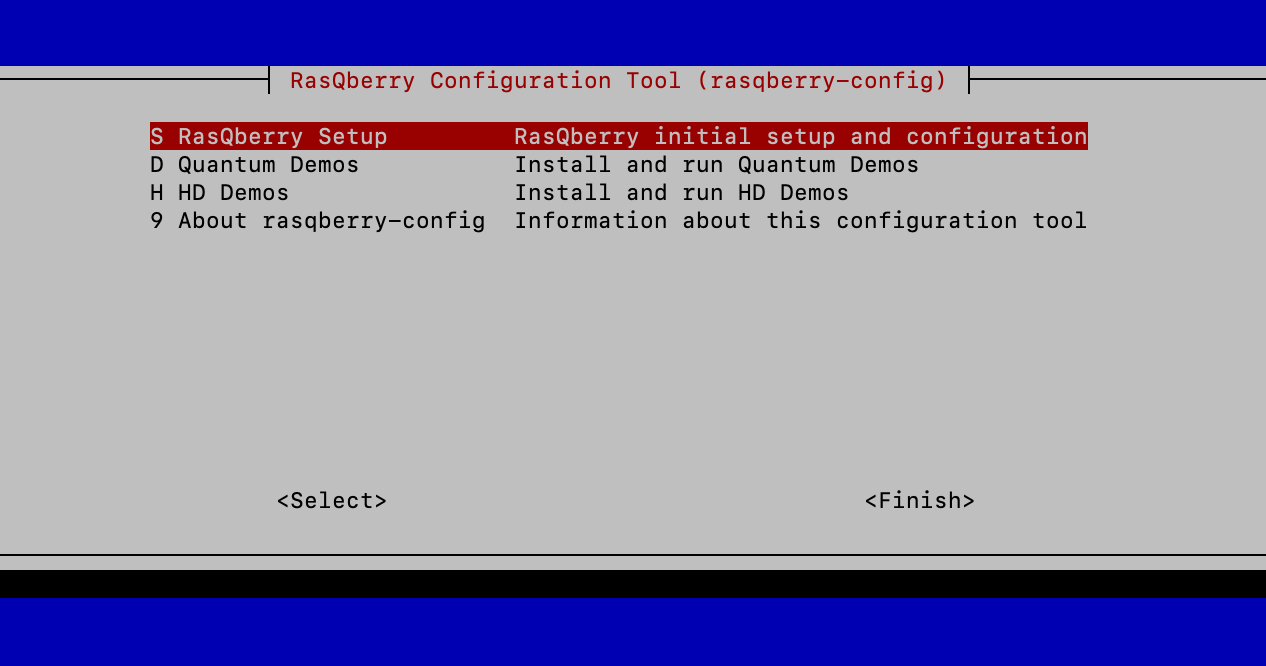
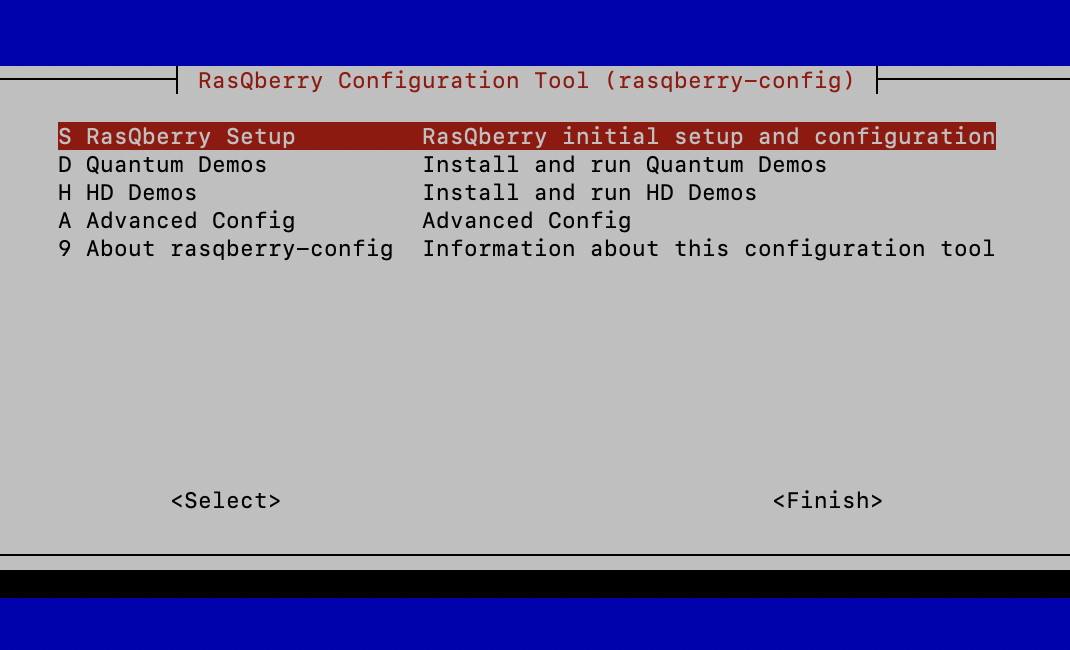
Updated documentation  (#95)
* Update Documentation

* Added how to access the Kivy Interface

diff --git a/documentation/RasQberry_Setup.md b/documentation/RasQberry_Setup.md
@@ -66,47 +66,46 @@ This will download and start the RasQberry Configuration Tool (rasqberry-config)
 To start the tool again you can use 
 ```pyhton 
 . ./RasQ-init.sh 
-````
+```
 in your terminal/ssh window.
 
 <br/>
 
 ## Step 4: RasQberry Setup
-You can assemble your Hardware either with an (touch) display or with an senseHAT. It is not possible to use the senseHAT and the touch display on the same Raspberry P, because the senseHAT isn't working with the installation process from the touch display.
+You can assemble your Hardware either with an (touch) display or with an senseHAT. It is not possible to use the senseHAT and the touch display on the same Raspberry Pi, because the senseHAT isn’t working with the installation process from the touch display.
+<br/>
+
 ### With touch display
-In the RasQberry Configuration Tool select `S – RasQberry Setup`. <br/> Follow these steps one by one.
-1.	Select `I0 – Initial Config`   
-Your Raspberry will process the basic configurations on your device
-1.	Select `S1 – Enable VNC` (required if you want to remotely access the screen)  
-With this step you will be able to use VNC
-After this step is executed, you will have to reboot your device.
-(See also: Install VNC Viewer)
-1.	Select `S2 – Enable 4’’ Display` (required if using a touchscreen)  
-With this step you will be able to use a touchscreen with your Raspberry.
-After this step is executed, you will have to reboot your device
-1.	Select `S3 – Software Update`   
-With this step your device is searching for software updates and will execute them.
-After this step is executed, you will have to reboot your device.
-1.	Select `Q1 – Install Qiskit`  
+Open the RasQberry Configuration Tool and follow the steps below.
+1. Select `S – RasQberry Setup`
+1. Select `G0 – System Update`
+1. Select `G1 - Initial Config`<br/>
+Your Raspberry will process the basic configurations on your device.
+1. Select `G2 – Install Qiskit`<br/>
 With this step you will install Qiskit. You can choose between a few versions of Qiskit to install. The latest version is recommended.
-1.	Select `S0 – Bloch Autostart`   
-With this step your Raspberry will start the Bloch Sphere Demo automatically whenever you start your device. 
-After your first time executing `S0` your Raspberry will reboot automatically. After the reboot you should execute `S0` again. This time there is no automatic reboot, but one is recommended.
-1.	Select `S7 – Enable LED Lights` (optional)   
-With this step you can enable LED Lights that you connected to your Raspberry Pi.
+1. Select `D0 – Bloch Autostart`<br/>
+With this step you Raspberry will start the Bloch Sphere Demo automatically whenever you start your device.<br/>
+After your first the executing `D0` your Raspberry will reboot automatically. After the reboot you should execute `D0` again. This time there is no automatic reboot, but one is recommended.
+1. Select `D1 – Config & Demos` (optional)<br/>
+With this step you will configurate Qiskit automatically and install the Quantum Demos. Also this step will configurate jupyter notebook.
+1. Go back to the first menu page and select `A – Advaned Config`
+1. Select `S1 – Enable VNC` (optional; required if you want to remotely access the screen)<br/>
+With this step you will be able to use VNC.<br/>
+After this step is executed, you will have to reboot your device. (See also: Install VNC Viewer)
+1. Select `S2 – Enable 4’’ Display` (required if using touch screen)<br/>
+With this step you will be able to use a touchscreen with your Raspberry. After this step is executed, you will have to reboot your device.
+1. Under `A – Advanced Config’ and ‘S7 – Enable LED Light` you can enable the LED Light you connected to your Raspberry Pi.
 
 ### With Sense HAT
-In the RasQberry Configuration Tool select `S – RasQberry Setup`. <br/> Follow these steps one by one.
-1.	Select `I0 – Initial Config`   
-Your Raspberry will process the basic configurations on your device
-1.	Select `S3 – Software Update`   
-With this step your device is searching for software updates and will execute them.
-After this step is executed, you will have to reboot your device.
-1.	Select `Q1 – Install Qiskit`  
+Open the RasQberry Configuration Tool and follow the steps below.
+1. Select `S – RasQberry Setup`
+1. Select `G0 – System Update`
+1. Select `G1 – Initial Config’
+Your Raspberry will process the basic configurations on your device.
+1. Select `G2 – Install Qiskit`
 With this step you will install Qiskit. You can choose between a few versions of Qiskit to install. The latest version is recommended.
-1.	Select `S6 – Config & Demos` (optional if using touchscreen; required if using Sense HAT)  
-With this step you will configurate Qiskit automatically and install the Quantum Demos. Also, this step will configurate jupyter notebook.  
-This step will also configurate jupyter notebook and install the any required packages for the jupyter notebook, the Sense HAT and the Sense HAT Emulator.
+1. Select `S0 – Config SenseHAT`<br/>
+With this step you will configurate the SenseHAT and the qrasp demo will autostart.
 
 <br/>
 
@@ -124,7 +123,7 @@ In the terminal you can now enter your new API Token.
 ## Cloning the Git-Repository with the Qiskit-tutorials 
 By executing the following instructions you clone a repository (https://github.com/Qiskit/qiskit-tutorials) with a collection of jupyter notebooks aimed at teaching people who want to use Qiskit for writing quantum computing programs, and executing them on one of several backends (online quantum processors, online simulators, and local simulators).
 
-If you want to clone the Git Repository to access the with the Qiskit-Tutorials, you need to open the RasQberry Configuration Tool. First select `H - HD Demos` and second `Q1 - Qiskit Tutorials` (Jupyter Notebokk starts automatically) or `Q2 - Qiskit Tutorials - no browser`.<br/>
+If you want to clone the Git Repository to access the with the Qiskit-Tutorials, you need to open the RasQberry Configuration Tool. First select `H - HD Demos` and second `Q1 - Qiskit Tutorials` (Jupyter Notebokk starts automatically).<br/>
 This will take a moment to clone and as the case may be to open the jupyter notebook.
  
  <br/>
@@ -190,15 +189,6 @@ Your VNC Viewer will now connect to your Raspberry Pi.
 
 <br/>
 
-## Enable/Disable second VNC Display
-You can enable a second vnc display with an higher resolution that functions as a side-to-side display to your RasQberry or your first vnc display.<br/>
-To enable the second display you need to open the Rasqberry Configuration Tool and select `S - RasQberry Setup` and then `S1a - Enable second VNC`.<br/>
-You can now connect to the vnc server with the address: *{ip address}:5902*<br/>
-
-To disable the second display you need to open the Rasqberry Configuration Tool and select `S - RasQberry Setup`and then `S1b - Disable second VNC`.<br>
-
-<br/>
-
 ## Connect a LED Ring-Light to your Raspberry Pi
 To connect your LED light, you need three cables (GND, VCC & IN).
 Put your cables on the Raspberry Pins as follows:
@@ -224,3 +214,6 @@ Your LED Light should now be turned on. To turn it of press ctl + c.
 
 If this method doesn’t work, you can also open the RasQberry Configuration Tool. Select `S – RasQberry Setup`, then `S7 – Enable LED Light` and finally `S8 – Toggle LED Light`.  
 Your LED Light should now be turned on. To turn it off again select `S8 – Toggle LED Light` again.
+
+[Go back to: Content](./README.md) <br/>
+[Go back to: Start Page](../README.md)  

diff --git a/documentation/RasQberry_Demos.md b/documentation/RasQberry_Demos.md
@@ -1,6 +1,8 @@
 # RasQberry Demos
 In this repository you can find diferent demos which also work with diferent hardware components.<br/>
 
+You can access the different demos with the main menu from the Raspberry under the categpries `Demos` and `HD Demos`. When you use your RasQberry with an display you can access the demos with the Kivy Interface aswell. You can start the Kivy Interface by clicking the desktop-icon on your Desktop.
+
 ## Demos using a (touch) display
 ### Bloch Sphere <br/>
 In quantum mechanics and computing, the Bloch sphere is a geometrical representation of the pure state space of a two-level quantum mechanical system (qubit), named after the physicist Felix Bloch.<br/>
@@ -117,12 +119,12 @@ By cloning the git-repository with the qiskit-demos you have access to new jupyt
 
 ### Jupyter Notebooks<br/>
 In your Jupyter Notebook you can invastigate demos (e.g. the qiskit tutorials and demos) or can run your own code.<br/>
-By executing `S6 - Config & Demos` in the Rasqberry Configuration Tool you have acces to more demos that you can run in jupyter notebooks on your Raspberry Pi. You need to provide your API Token and the jupyter notebook will be configurated.
+By executing `D1 - Config & Demos` (under `S - RasQerry Setup`) in the Rasqberry Configuration Tool you have acces to more demos that you can run in jupyter notebooks on your Raspberry Pi. You need to provide your API Token and the jupyter notebook will be configurated.
 <br/>
 
 * **Start**<br/>
 To start the Jupyter Notebook you need to open the Rasqberry Configuration Tool. You can start it automatically with the Qiskit demos or with the Fun-qith-Quantum Demos. <br/>
-You need to select `H - HD Demos`and then the option you want.<br/>
+You need to select `H - HD Demos` and then the option you want.<br/>
 The Jupyter Noebook boots in the background ans you can access it over your browser or it will open on your RasQberry.<br/> 
 <br/>
 If you want to start the jupyter notebook with the cloned Fun-with-Quantum or Qiskit-Tutorials Repository you can open the Rasqberry-Configuration Tool and select `H - HD Demos` and then choose the demo you want to access.<br/>
@@ -130,3 +132,6 @@ If you want to start the jupyter notebook with the cloned Fun-with-Quantum or Qi
 When you are on your Raspberry you can access the Jupyter Notebook by opening http://raspberrypi:8888/ in your browser. When you want to access the Jupyter Notebook on your Laptop you can open it by typing http://{ip address}:{port}. The Default port is *8888*. You can find the corresponding portnumber in the messagebox.
 The password is *RasQberry*.<br/>
 You can now use the Jupyter notebook.
+
+[Go back to: Content](./README.md) <br/>
+[Go back to: Start Page](../README.md) 

diff --git a/documentation/3DModel_BillOfMaterial.md b/documentation/3DModel_BillOfMaterial.md
@@ -6,3 +6,6 @@ We will provide a more detailed BOM later. The following list should help to get
 1. Touch display. The following touch screen fits exactly into backplane of the current 3D model: [Miuzei Raspberry Pi 4 Touchscreen, 4 inch](http://www.miuzeipro.com/product/miuzei-raspberry-pi-4-touch-screen-with-case-fan-4-inch-ips-full-angle-game-display-800x480-pixel-support-hdmi-input-with-touch-pen-4-pcs-heatsinks-support-raspbian-kali-by-miuzei/). We plan to provide more flexibility in the future to support other types as well.
 1. As an alternative to the touch screen, some of our demos can (only) be used with a [SenseHAT](https://www.raspberrypi.org/products/sense-hat/). The "closed backplane" of the 3D model can be modified to nicely fit the SenseHAT.
 1. Some additional cables to connect the components, a power supply (optionally a battery pack that fits inside the 3D model), acrylic glass, LED ring, etc are needed for a complete model.
+
+[Go back to: Content](./README.md) <br/>
+[Go back to: Start Page](../README.md) 

diff --git a/documentation/3DModel.md b/documentation/3DModel.md
@@ -7,3 +7,5 @@ An enclosure (3D model) of the IBM Q System One can be used for RasQberry. STL f
 ### Assembly for Version 5.5
 [![](http://img.youtube.com/vi/LZZDI9oBFN8/0.jpg)](https://www.youtube.com/watch?v=LZZDI9oBFN8 "assembly animation RasQberry 3D model v.5.5") 
 
+[Go back to: Content](./README.md) <br/>
+[Go back to: Start Page](../README.md) 

diff --git a/documentation/HowToUse.md b/documentation/HowToUse.md
@@ -65,3 +65,6 @@ When you click this icon the RasQ-LED Demo starts, if you connected any LED Ligh
 ### Clear LED Lights
 <img src="../icons/RaspberryQiskitEarsTop.png" alt="drawing" width="64"/> <br/>
 When you click this icon you clear all attached LED Lights.
+
+[Go back to: Content](./README.md) <br/>
+[Go back to: Start Page](../README.md) 

diff --git a/documentation/RasQberry_checkList.md b/documentation/RasQberry_checkList.md
@@ -64,3 +64,6 @@ You can sccess these demos with the RasQberry Configuration Tool under `D - Quan
 - [ ] Rasqberry-Tie 5<br/>
 - [ ] Rasqberry-Tie 16<br/>
 - [ ] Qrasp<br/>
+
+[Go back to: Content](./README.md) <br/>
+[Go back to: Start Page](../README.md) 

diff --git a/documentation/HowToContribute.md b/documentation/HowToContribute.md
@@ -119,3 +119,6 @@ When you are done with your description you need to click on `Create pull reques
 <br/>
 
 Congratulations, you created a pull request!
+
+[Go back to: Content](./README.md) <br/>
+[Go back to: Start Page](../README.md) 
